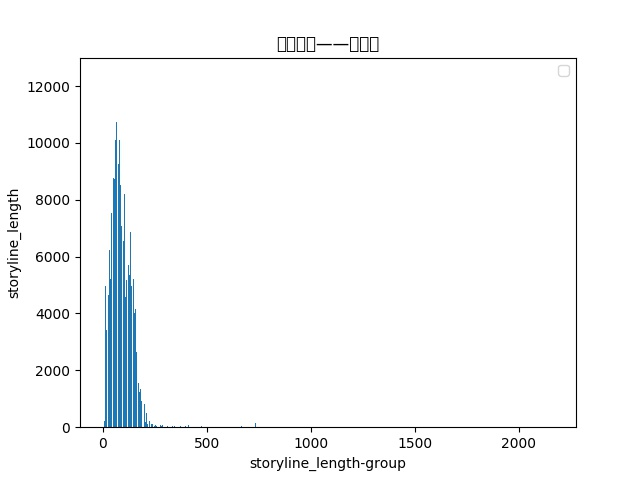
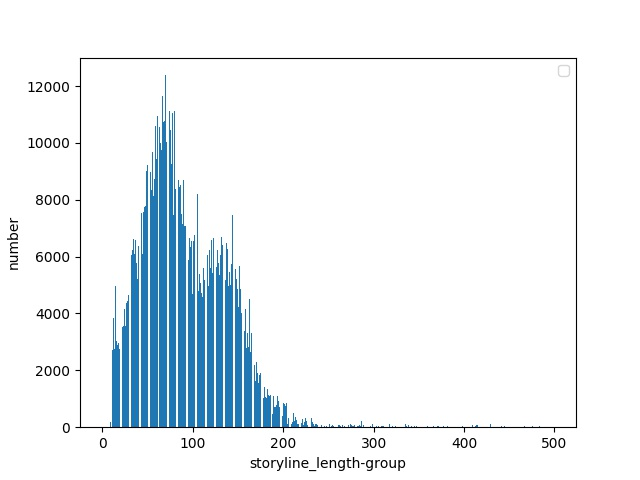
提交

diff --git a/data_preprocess/get_memory.py b/data_preprocess/get_memory.py
@@ -1,0 +1,67 @@
+#!/usr/bin/env python3
+# -*- coding: utf-8 -*-
+"""
+Created on Tue Jan  7 15:27:05 2020
+
+@author: mac
+"""
+import csv
+import string
+
+
+def str_count2(str):
+    '''找出字符串中的中英文、空格、数字、标点符号个数'''
+    count_en = count_dg = count_sp = count_zh = count_pu = 0
+
+    for s in str:
+        # 英文
+        if s in string.ascii_letters:
+            count_en += 1
+        # 数字
+        elif s.isdigit():
+            count_dg += 1
+        # 空格
+        elif s.isspace():
+            count_sp += 1
+        # 中文
+        elif s.isalpha():
+            count_zh += 1
+        # 特殊字符
+        else:
+            count_pu += 1
+
+    return count_en+count_dg+count_sp+count_zh+count_pu
+
+
+# def str_count2(str):
+#     count_ = 0
+#     for s in str:
+#         # 中文字符范围
+#         if '\u4e00' <= s <= '\u9fff':
+#             count_ = count_ + 1
+#
+#     return count_
+
+
+if __name__ == '__main__':
+
+    origin_file = '/Users/mac/Desktop/movie_storyline_comment_topic_fuwu.csv'
+
+    with open(origin_file, 'r') as f:
+
+        reader = csv.reader(f)
+        count = 0
+        word_count = 0
+        next(f)
+        for row in reader:
+            count = count + 1
+            word_count = word_count + str_count2(row[0])
+            word_count = word_count + str_count2(row[1])
+            word_count = word_count + str_count2(row[2])
+            word_count = word_count + str_count2(row[3])
+            word_count = word_count + str_count2(row[4])
+
+        print(count)
+        print(word_count)
+
+

diff --git a/data_preprocess/textRank.py b/data_preprocess/textRank.py
@@ -1,0 +1,44 @@
+#!/usr/bin/env python3
+# -*- coding: utf-8 -*-
+"""
+Created on Sat Nov 30 21:38:10 2019
+
+@author: mac
+"""
+
+# -*- encoding:utf-8 -*-
+from textrank4zh import TextRank4Keyword, TextRank4Sentence
+import codecs
+
+file = r"/Users/mac/Desktop/test1.txt"
+text = codecs.open(file, 'r', 'utf-8').read()
+
+word = TextRank4Keyword()
+
+word.analyze(text, window=2, lower=True)
+w_list = word.get_keywords(num=10, word_min_len=1)
+
+print('关键词:')
+print
+for w in w_list:
+    print(w.word, w.weight)
+
+
+print
+phrase = word.get_keyphrases(keywords_num=5, min_occur_num=1)
+
+print('关键词组:')
+print
+for p in phrase:
+    print(p)
+print
+sentence = TextRank4Sentence()
+
+sentence.analyze(text, lower=True)
+s_list = sentence.get_key_sentences(num=3, sentence_min_len=5)
+
+print('关键句:')
+print
+for s in s_list:
+    print(s.sentence, s.weight)
+print

diff --git a/data_preprocess/print/print_commentlength.py b/data_preprocess/print/print_commentlength.py
@@ -37,12 +37,12 @@ def handle_commentlength_print(origin_file, imgsave_path):
         group = []
         print(maxlength)
 
-        for i in range(1000):
+        for i in range(200):
             group.append(i)
         # sns.set_palette("hls") #设置所有图的颜色，使用hls色彩空间
         # sns.distplot(storyline_length,color="b",bins=30,kde=True)
 
-        plt.hist(comments_length_list, group, histtype='bar', rwidth=1)
+        plt.hist(comments_length_list, group, histtype='bar', rwidth=0.8)
         plt.legend()
 
         plt.xlabel('comments_length_group')

diff --git a/data_preprocess/print/print_score.py b/data_preprocess/print/print_score.py
@@ -6,13 +6,6 @@ Created on Sun Feb 8 02:32:12 2020
 @author: mac
 """
 
-#!/usr/bin/env python3
-# -*- coding: utf-8 -*-
-"""
-Created on Sun Jan 26 17:59:12 2020
-
-@author: mac
-"""
 
 import csv
 
@@ -38,6 +31,7 @@ def handle_score_print(origin_file, imgsave_path):
         for row in reader:
             if row[2]!='':
                 count += 1
+                print(int(row[2]))
                 score_list.append(int(row[2]))
 
         group = [0,1,2,3,4,5]

diff --git a/data_preprocess/TFIDF_keywords.py b/data_preprocess/TFIDF_keywords.py
@@ -6,8 +6,6 @@ Created on Sun Feb 6 17:59:12 2020
 @author: mac
 """
 
-
-
 import jieba.analyse
 import codecs
 
